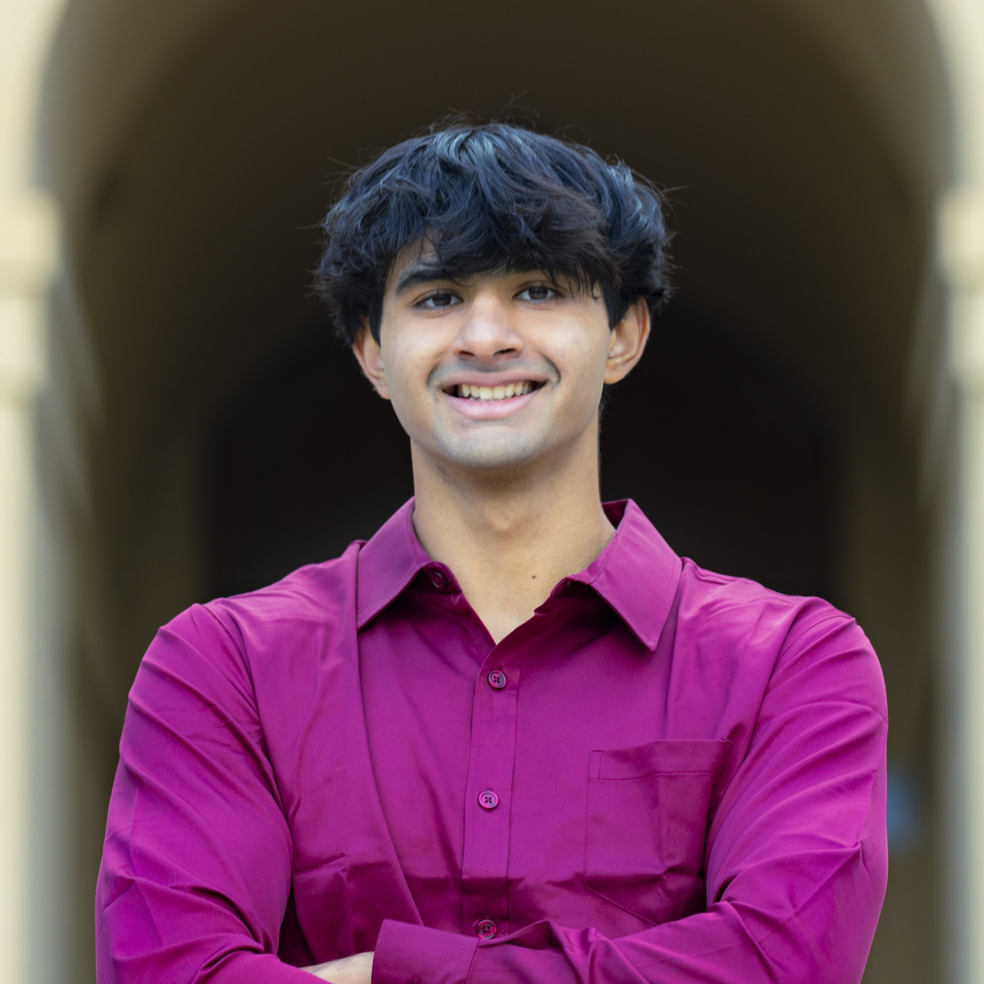
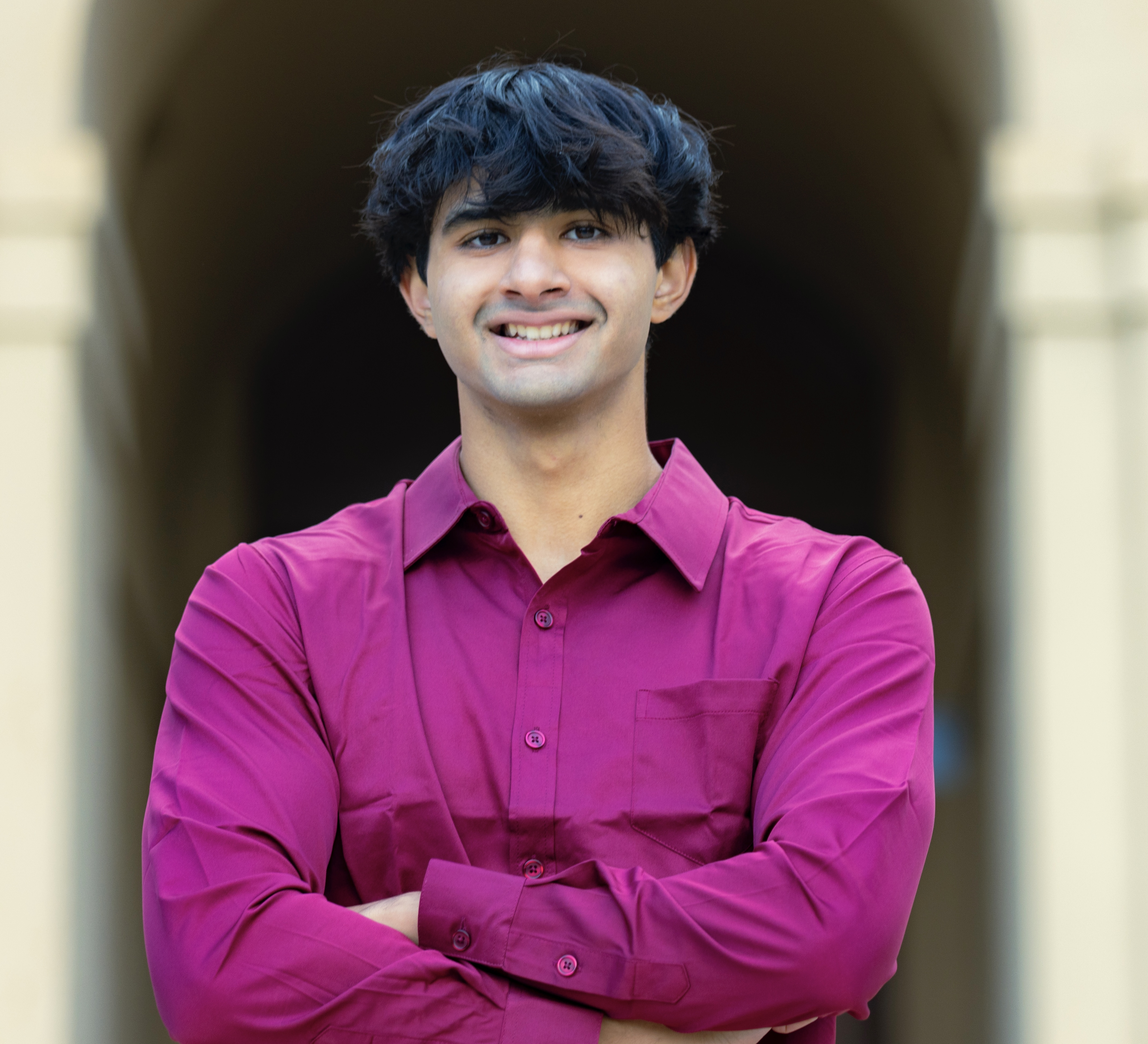
format

diff --git a/src/data/boards.js b/src/data/boards.js
@@ -1,10 +1,10 @@
-import Cat from "../../public/cat.png";
 import Nikhil from "../../public/Nikhil.JPG";
 import Hrithik from "../../public/Hrithik.JPG";
 import Ridvik from "../../public/Ridvik.JPG";
 import Dhruv from "../../public/Dhruv.JPG";
 import Sakshi from "../../public/Sakshi.JPG";
 import Anokhi from "../../public/Anokhi.JPG";
+import Arvind from "../../public/Arvind.JPG";
 
 export const boards = [
   {
@@ -15,7 +15,7 @@ export const boards = [
   {
     name: "Arvind Upadhya",
     position: "Captain",
-    image: Cat,
+    image: Arvind,
   },
   {
     name: "Hrithik Jariwala",

diff --git a/src/app/boards/page.js b/src/app/boards/page.js
@@ -16,7 +16,7 @@ const Boards = () => {
         className=" -translate-y-[7%] object-contain rotate-180 absolute top-0"
       />
       <PageTitle title="BOARDS" />
-      <Row className="ml-[20%] md:ml-0 translate-x-[3%] md:w-8/12 z-10 mt-[5%]">
+      <Row className="ml-[20%] md:ml-0 md:translate-x-[5%] md:w-8/12 z-10 mt-[5%]">
         {boards.map((board, index) => (
           <Col key={index} xs={10} sm={2} lg={4}>
             <Board

diff --git a/src/components/Title.jsx b/src/components/Title.jsx
@@ -18,7 +18,7 @@ const Title = () => {
           alt="Logo"
           className="md:w-1/6 w-2/5 object-contain"
         />
-        <p className="md:mb-[7%] mb-[20%] text-2xl md:text-3xl mt-8 text-white font-bold">
+        <p className="md:mb-[7%] mb-[20%] text-2xl md:text-4xl mt-8 text-white font-bold">
           Fusion Dance Team at UCR
         </p>
         <JoinButton />
